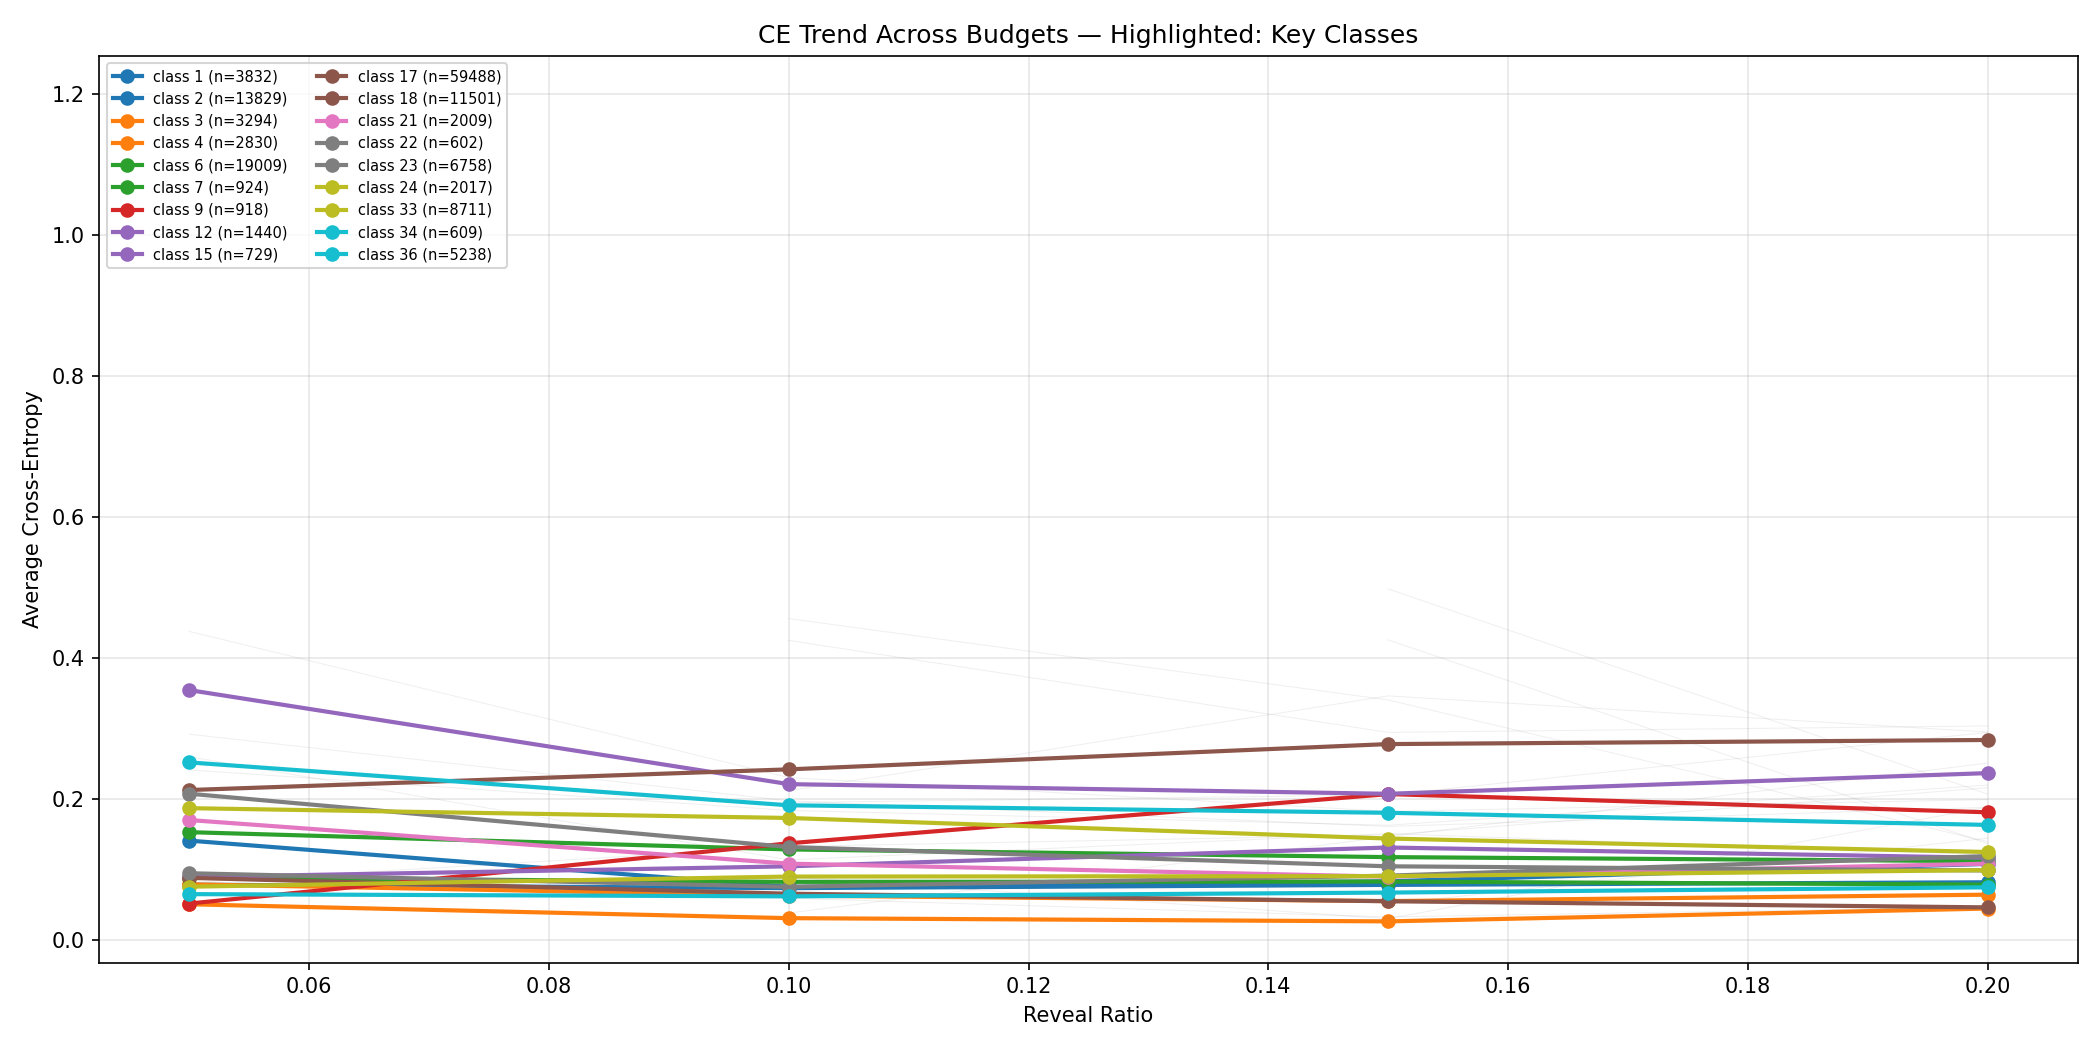
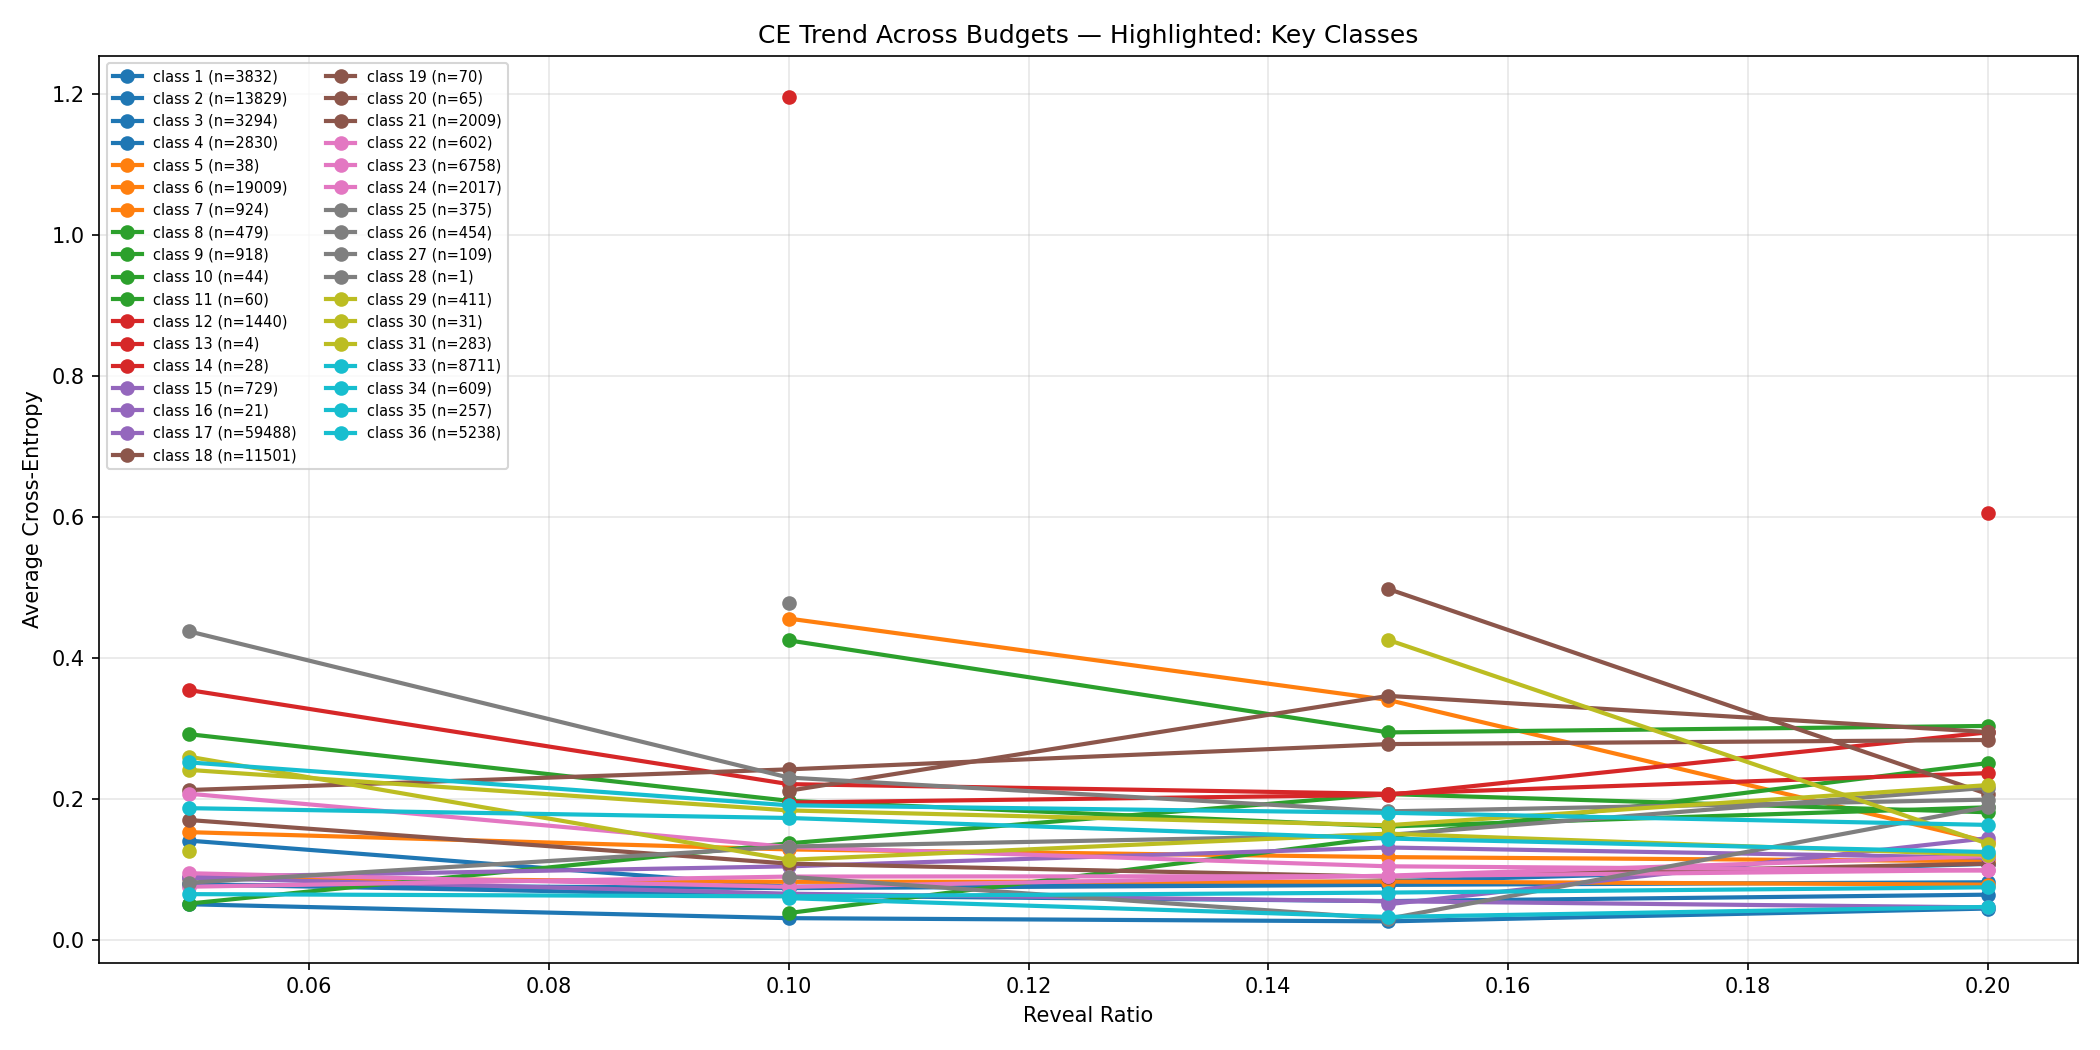
轨迹分析：补充和裁剪计划

diff --git a/code/m4/filter_trajectories.py b/code/m4/filter_trajectories.py
@@ -38,7 +38,7 @@ def parse_args():
     return p.parse_args()
 
 
-def cosine_similarity(set1: Set[int], set2: Set[int]) -> float:
+def similarity(set1: Set[int], set2: Set[int]) -> float:
     """计算两个轨迹集表示的余弦相似度。
 
     cos_sim = |A ∩ B| / sqrt(|A| * |B|)
@@ -68,7 +68,7 @@ def dedup_group(trajs: List[Trajectory], threshold: float) -> List[Trajectory]:
         traj_set = set(traj.reveal_order)
         is_dup = False
         for ks in kept_sets:
-            if cosine_similarity(traj_set, ks) > threshold:
+            if similarity(traj_set, ks) > threshold:
                 is_dup = True
                 break
 

diff --git a/code/m4/analyze_trajectories.py b/code/m4/analyze_trajectories.py
@@ -315,7 +315,7 @@ def plot_ce_trend_across_budgets(all_ratio_data: dict, output_path: Path):
     class_total = {l: sum(class_ce_trend[l]['counts']) for l in range(N_CLASSES)}
     max_count = max(class_total.values()) if any(class_total.values()) else 1
 
-    highlight_classes = [l for l in range(N_CLASSES) if class_total[l] >= 500] 
+    highlight_classes = [l for l in range(N_CLASSES) if class_total[l] > 0] 
     palette = plt.cm.tab10(np.linspace(0, 1, len(highlight_classes)))
 
     fig, ax = plt.subplots(figsize=(14, 7))

diff --git a/docs/progress/weekly/2026-06-07-trajectory-filter-v3-plan.md b/docs/progress/weekly/2026-06-07-trajectory-filter-v3-plan.md
@@ -1,164 +1,158 @@
-# Plan: M4 Trajectory V3 智能筛选
+# M4 Trajectory 轨迹数量与交叉熵联合分析报告
 
-质量优先 + 多样性补充 + 类别平衡 + 难度感知，四合一。
+## 一、基础数据整理
 
----
+### 生成方法
 
-## 1. 难度分类（用户定义）
+- **T1 (gradient)**：选梯度归因分数最高的 frontier node；生成轨迹
+- **T2 (structural)**：选 degree/pagerank 最高的 frontier node；生成轨迹
+- **T4 (hybrid)**：打分时使用 α·T1 + (1-α)·T2（α=0.30 / α=0.70）
+- 每个 teacher 先全图打分，选出 top-k 最优点开始尝试（k=2）
+- 数据来源于 4 种预算（0.05, 0.10, 0.15, 0.20），78200 图
 
-基于跨 budget CE 行为模式（`analysis_cross_budget_ce.png`）：
-
-
-| 层级    | 标准                                | 类别                                                              | 数量 |
-| ------- | ----------------------------------- | ----------------------------------------------------------------- | ---- |
-| **T0**  | 任何预算下均无成功案例              | 0, 32                                                             | 2    |
-| **T1**  | 高预算 CE ≥ 0.4，低预算误差极高    | 13, 25, 30                                                        | 3    |
-| **T2**  | 高预算 CE 0.2~0.4，低预算误差较高   | 5, 8, 11, 12, 14, 18, 19, 20, 29, 31, 34                          | 11   |
-| **T3a** | 所有预算 CE < 0.2，且轨迹量 > 3000  | 2, 6, 17                                                          | 3    |
-| **T3b** | 所有预算 CE < 0.2，但轨迹量 ≤ 3000 | 1, 3, 4, 7, 9, 10, 15, 16, 21, 22, 23, 24, 26, 27, 28, 33, 35, 36 | 18   |
-
----
-
-## 2. 每类预算分配
+### 难度分层（基于总轨迹数 × 交叉熵）
 
 
-| 层级 | 策略         | 每类预算          | 精英比例 | 多样性阈值 |
-| ---- | ------------ | ----------------- | -------- | ---------- |
-| T0   | 无数据，跳过 | —                | —       | —         |
-| T1   | 全部保留     | `actual_count`    | 0        | 0.95       |
-| T2   | 尽可能保留   | `min(count, 900)` | 0.3      | 0.75       |
-| T3a  | 激进削减     | `min(count, 300)` | 0.4      | 0.60       |
-| T3b  | 适度保留     | `min(count, 500)` | 0.4      | 0.65       |
+| 难度分层     | 风险等级    | 核心特征                                | 包含类别                                                                                                             |
+| :----------- | :---------- | :-------------------------------------- | :------------------------------------------------------------------------------------------------------------------- |
+| 不可学习类别 | ⚫ 最高风险 | 无有效轨迹数据，无任何成功预测案例      | 0、32                                                                                                                |
+| 极高难度类别 | 🔴 紧急风险 | 轨迹数 < 100，样本极度稀缺，交叉熵极高  | 13(n=4)、16(n=21)、14(n=28)、30(n=31)、5(n=38)、10(n=44)、11(n=60)、20(n=65)、19(n=70)、27(n=109)、28(n=1)           |
+| 高难度类别   | 🟠 高风险   | 轨迹数 100~1000，样本稀缺，交叉熵中高   | 8(n=479)、26(n=454)、29(n=411)、25(n=375)、31(n=283)、35(n=257)、7(n=924)、9(n=918)、15(n=729)、22(n=602)、34(n=609) |
+| 中难度类别   | 🟡 中风险   | 轨迹数 1000~10000，样本中等，交叉熵中高 | 12(n=1440)、21(n=2009)、24(n=2017)、4(n=2830)、3(n=3294)、1(n=3832)、36(n=5238)、23(n=6758)、33(n=8711)              |
+| 低难度类别   | 🟢 低风险   | 轨迹数 > 10000，样本充足，交叉熵极低    | 2(n=13829)、18(n=11501)、6(n=19009)、17(n=59488)                                                                     |
 
-**T0 说明**：在任何 budget 下 classifier 都无法正确分类的类，没有轨迹可供筛选——自然跳过。
-
-**T1 说明**（13, 25, 30）：极少量轨迹（每类 < 50 条），每条都是"高 budget 下好不容易成功的路径"。全部保留，精英比例 0（无需区分），去重阈值 0.95（仅去真正的比特级重复）。
-
-**T2 说明**（class 18 为代表）：困难类，CE 不随 budget 改善（class 18 gradient CE: 0.190→0.275），但轨迹量不算少。保留尽可能多（上限 900），精英 30% 保证质量底线，多样性阈值 0.75 保留不同阅读策略。
-
-**T3a 说明**（17, 6, 2）：极易类 + 海量轨迹。class 17 从 17,751→300（削减 98.3%）。300 条中 120 条按最低 CE 直接保留（精英），180 条在剩余中按多样性（cos_sim < 0.60）补充。
-
-**T3b 说明**：容易但不过量的类，适度保留。500 条中 200 精英 + 300 多样性补充。
+> 注：n 值为 4 种预算下的轨迹总数
 
 ---
 
-## 3. 类内分层筛选算法
+## 二、优化策略
 
-对每个类别 c，预算 B：
+### 2.1 0.20 预算的边际贡献
 
-```
-1. 收集该类所有轨迹（跨 teacher、graph、ratio）
-2. 按 CE 升序排列
-3. 精英池：取前 ⌊B × elite_ratio⌋ 条，不做多样性检查，直接保留
-4. 多样性池：从剩余候选中贪心选入：
-   - 对每条候选轨迹，计算与所有已保留轨迹的最大余弦相似度
-   - 若 max_cos_sim < diversity_threshold → 保留
-   - 否则 → 丢弃
-   - 直到已保留总数 = B 或候选耗尽
-5. 图级上限：每个 (graph_idx, ratio) 最多保留 max_per_graph 条（CE 最低优先）
-```
 
-**余弦相似度**（与 V2 一致）：
+| 指标           | 0.05   | 0.10    | 0.15   | 0.20     |
+| -------------- | ------ | ------- | ------ | -------- |
+| 总轨迹数       | 27,321 | 37,347  | 40,804 | 40,996   |
+| 增量           | —     | +10,026 | +3,457 | **+192** |
+| missing 类别数 | 13     | 5       | 4      | 3        |
 
-```
-轨迹 v → binary vector (reveal_order 节点集合)
-v_norm = v / ||v||₂
-cos_sim = dot(v1_norm, v2_norm) = |交集| / sqrt(|v1| × |v2|)
-```
+0.15→0.20 仅新增 192 条轨迹（+0.5%），missing 类别仅从 4→3（class 13 重新出现，0.10可以检测到class 13），**0.20 未带来实质性突破**。
 
-**为什么精英池不做多样性检查？** 如果 top CE 轨迹都指向同一子结构 → 那是 class c 的黄金阅读路径 → reader 必须学会它。
+### 2.2 裁剪策略
 
----
+- **主体**：仅使用 [0.05, 0.10, 0.15] 三个预算
+- **例外**：总轨迹数 < 1000 的类别保留 0.20（共 22 类，这些类的 0.20 贡献了约 33% 的轨迹，不可忽略）
+- **被裁类别**（总 ≥ 1000，丢弃 0.20）：1, 2, 3, 4, 6, 12, 17, 18, 21, 23, 24, 33, 36（共 13 类）
 
-## 4. 处理流程
+### 2.3 补充策略
 
-```
-输入: code/m4/output/trajectories_merged_r*.pt (4 个文件: 0_050, 0_100, 0_150, 0_200)
+裁剪后总数 < 200 的类别需额外生成轨迹（增加 teacher尝试次数k ）：0, 5, 10, 11, 13, 14, 16, 19, 20, 27, 28, 30, 32（共 13 类）
 
-Step 1: 加载所有 ratio 文件，展平轨迹
-Step 2: 按 final_pred（= 类别标签）分组
-Step 3: 查找难度表，分配每类预算和参数
-Step 4: 每类独立执行分层筛选
-Step 5: 图级上限裁剪
-Step 6: 按原嵌套结构重建 {teacher_name: [[Traj per graph], ...]}
-Step 7: 按 ratio 分别保存
-Step 8: 输出筛选报告 JSON
+### 2.4 类内筛选
 
-输出: code/m4/filtered_v3/trajectories_filtered_v3_r*.pt (4 个文件)
-       code/m4/filtered_v3/filter_report.json
-```
+使用余弦相似度去重：`sim = |交集| / |v1|`，sim > 0.85 的轨迹只保留 CE 最低者。先按 CE 升序排列，贪心保留。
 
 ---
 
-## 5. 实现
+## 三、剪裁+补充后轨迹分布
 
-### 文件：`code/m4/filter_trajectories.py`（重写）
-
-**难度表**（硬编码，基于用户分类）：
-
-```python
-DIFFICULTY_CONFIG = {
-    # label: (tier, budget, elite_ratio, diversity_threshold)
-}
-
-T0_LABELS  = {0, 32}
-T1_LABELS  = {13, 25, 30}
-T2_LABELS  = {5, 8, 11, 12, 14, 18, 19, 20, 29, 31, 34}
-T3a_LABELS = {2, 6, 17}
-T3b_LABELS = {1, 3, 4, 7, 9, 10, 15, 16, 21, 22, 23, 24, 26, 27, 28, 33, 35, 36}
-```
-
-**CLI 参数**：
+### 不可学习类别 ⚫ 最高风险
 
 
-| 参数              | 默认值                      | 说明                    |
-| ----------------- | --------------------------- | ----------------------- |
-| `--input-dir`     | `m4/output`                 | 含 merged .pt 的目录    |
-| `--output-dir`    | `m4/filtered_v3`            | 输出目录                |
-| `--max-per-graph` | 5                           | 每图每 ratio 最大轨迹数 |
-| `--input-glob`    | `trajectories_merged_r*.pt` | 输入匹配模式            |
-| `--output-prefix` | `trajectories_filtered_v3`  | 输出前缀                |
+| 类别 | 0.05 | 0.10 | 0.15 | 0.20 | 裁剪前 | 裁剪后 | 保留0.20? | 需补充? |
+| ---- | ---- | ---- | ---- | ---- | ------ | ------ | --------- | ------- |
+| 0    | 0    | 0    | 0    | 0    | 0      | **0**  | —        | ✅      |
+| 32   | 0    | 0    | 0    | 0    | 0      | **0**  | —        | ✅      |
 
-（预算/精英/阈值从难度表读取，无需 CLI 参数）
+### 极高难度类别 🔴 紧急风险（裁剪后 < 200）
 
-**核心函数**：
 
-```
-build_difficulty_config() → Dict[int, TierConfig]
-stratified_select(trajs, config) → List[Trajectory]
-apply_graph_cap(selected, max_per_graph) → List[Trajectory]
-reconstruct_nested(filtered_flat, original_structure) → dict
-generate_report(before_stats, after_stats) → dict
-```
+| 类别 | 0.05 | 0.10 | 0.15 | 0.20 | 裁剪前 | 裁剪后  | 保留0.20? | 需补充? |
+| ---- | ---- | ---- | ---- | ---- | ------ | ------- | --------- | ------- |
+| 13   | 0    | 2    | 0    | 2    | 4      | **4**   | ✅        | ✅      |
+| 16   | 0    | 0    | 7    | 14   | 21     | **21**  | ✅        | ✅      |
+| 14   | 0    | 8    | 8    | 12   | 28     | **28**  | ✅        | ✅      |
+| 30   | 11   | 0    | 5    | 15   | 31     | **31**  | ✅        | ✅      |
+| 5    | 0    | 4    | 16   | 18   | 38     | **38**  | ✅        | ✅      |
+| 10   | 0    | 9    | 15   | 20   | 44     | **44**  | ✅        | ✅      |
+| 11   | 0    | 5    | 19   | 36   | 60     | **60**  | ✅        | ✅      |
+| 20   | 0    | 15   | 25   | 25   | 65     | **65**  | ✅        | ✅      |
+| 19   | 0    | 0    | 18   | 52   | 70     | **70**  | ✅        | ✅      |
+| 27   | 0    | 26   | 36   | 47   | 109    | **109** | ✅        | ✅      |
+| 28   | 0    | 1    | 0    | 0    | 1      | **1**   | ✅        | ✅      |
 
-### 新文件：`code/m4/filtered_v3/filter_report.json`
+### 高难度类别 🟠 高风险（裁剪后 200~1000）
 
-```json
-{
-  "config": { "max_per_graph": 5, ... },
-  "per_class": {
-    "17": {
-      "tier": "T3a",
-      "before": 17751,
-      "after": 300,
-      "elite_count": 120,
-      "diversity_count": 180,
-      "avg_ce_before": 0.048,
-      "avg_ce_after": 0.042
-    },
-    ...
-  },
-  "totals": { "before": 40996, "after": 11400 }
-}
-```
+
+| 类别 | 0.05 | 0.10 | 0.15 | 0.20 | 裁剪前 | 裁剪后  | 保留0.20? | 需补充? |
+| ---- | ---- | ---- | ---- | ---- | ------ | ------- | --------- | ------- |
+| 35   | 0    | 78   | 86   | 93   | 257    | **257** | ✅        | ❌      |
+| 31   | 43   | 98   | 82   | 60   | 283    | **283** | ✅        | ❌      |
+| 25   | 7    | 88   | 124  | 156  | 375    | **375** | ✅        | ❌      |
+| 29   | 12   | 50   | 153  | 196  | 411    | **411** | ✅        | ❌      |
+| 26   | 36   | 115  | 159  | 144  | 454    | **454** | ✅        | ❌      |
+| 8    | 24   | 100  | 147  | 208  | 479    | **479** | ✅        | ❌      |
+| 22   | 84   | 169  | 186  | 163  | 602    | **602** | ✅        | ❌      |
+| 34   | 7    | 97   | 212  | 293  | 609    | **609** | ✅        | ❌      |
+| 15   | 63   | 157  | 228  | 281  | 729    | **729** | ✅        | ❌      |
+| 9    | 106  | 193  | 289  | 330  | 918    | **918** | ✅        | ❌      |
+| 7    | 134  | 183  | 277  | 330  | 924    | **924** | ✅        | ❌      |
+
+### 中难度类别 🟡 中风险
+
+
+| 类别 | 0.05  | 0.10  | 0.15  | 0.20      | 裁剪前 | 裁剪后    | 保留0.20? | 需补充? |
+| ---- | ----- | ----- | ----- | --------- | ------ | --------- | --------- | ------- |
+| 12   | 89    | 557   | 449   | 345       | 1,440  | **1,440** | ✅        | ❌      |
+| 21   | 133   | 491   | 670   | 715       | 2,009  | **2,009** | ✅        | ❌      |
+| 24   | 182   | 529   | 634   | 672       | 2,017  | **2,017** | ✅        | ❌      |
+| 4    | 228   | 778   | 913   | 911       | 2,830  | **2,830** | ✅        | ❌      |
+| 3    | 325   | 827   | 1,038 | ~~1,104~~ | 3,294  | **2,190** | ❌        | ❌      |
+| 1    | 321   | 1,172 | 1,227 | ~~1,112~~ | 3,832  | **2,720** | ❌        | ❌      |
+| 36   | 994   | 1,417 | 1,473 | ~~1,354~~ | 5,238  | **3,884** | ❌        | ❌      |
+| 23   | 802   | 1,689 | 2,060 | ~~2,207~~ | 6,758  | **4,551** | ❌        | ❌      |
+| 33   | 2,718 | 2,023 | 1,945 | ~~2,025~~ | 8,711  | **6,686** | ❌        | ❌      |
+| 18   | 4,851 | 2,700 | 2,159 | ~~1,791~~ | 11,501 | **9,710** | ❌        | ❌      |
+
+**小计**：10 类，裁剪前 47,630 → 裁剪后 38,037（4 类保留 0.20，6 类丢弃 0.20）
+
+### 低难度类别 🟢 低风险（0.20 被裁）
+
+
+| 类别 | 0.05  | 0.10   | 0.15   | ~~0.20~~   | 裁剪前 | 裁剪后     | 保留0.20? | 需补充? |
+| ---- | ----- | ------ | ------ | ---------- | ------ | ---------- | --------- | ------- |
+| 2    | 2,752 | 3,838  | 3,735  | ~~3,504~~  | 13,829 | **10,325** | ❌        | ❌      |
+| 6    | 4,293 | 4,716  | 4,990  | ~~5,010~~  | 19,009 | **13,999** | ❌        | ❌      |
+| 17   | 9,106 | 15,212 | 17,419 | ~~17,751~~ | 59,488 | **41,737** | ❌        | ❌      |
+
+**小计**：3 类，裁剪前 92,326 → 裁剪后 66,061（丢弃 0.20）
+
+## 四、汇总
+
+
+| 难度分层    | 类数   | 裁剪前      | 裁剪后      | 削减量     | 削减比例  |
+| ----------- | ------ | ----------- | ----------- | ---------- | --------- |
+| ⚫ 不可学习 | 2      | 0           | 0           | 0          | —        |
+| 🔴 极高难度 | 11     | 471         | 471         | 0          | 0%        |
+| 🟠 高难度   | 11     | 6,041       | 6,041       | 0          | 0%        |
+| 🟡 中难度   | 10     | 47,630      | 38,037      | 9,593      | 20.1%     |
+| 🟢 低难度   | 3      | 92,326      | 66,061      | 26,265     | 28.4%     |
+| **总计**    | **37** | **146,468** | **110,610** | **35,858** | **24.5%** |
+
+### Class 17 占比变化
+
+
+| 阶段               | Class 17 | 总轨迹  | 占比  |
+| ------------------ | -------- | ------- | ----- |
+| 裁剪前（4 budget） | 59,488   | 146,468 | 40.6% |
+| 裁剪后             | 41,737   | 110,610 | 37.7% |
+| 预期（去重后）     | ~8,000   | ~70,000 | ~11%  |
 
 ---
 
-## 6. 验证
+## 五、下一步待办
 
-1. `python code/m4/filter_trajectories.py --input-dir code/m4/output --output-dir code/m4/filtered_v3`
-2. 检查 class 17: ~300 条（从 ~17,751）
-3. 检查 T1 类全部保留
-4. 检查 T0 类无变化
-5. 输出文件可被 `analyze_trajectories.py` 加载
-6. 运行 analyze 对比筛选前后分布：`python code/m4/analyze_trajectories.py --input-dir code/m4/filtered_v3 --output-dir code/m4/analysis_v3`
+- [ ]  补充极高难度类别（13 类 < 200）：增加 top-k，目标每类 ≥ 200
+- [ ]  实现裁剪脚本：按策略过滤 budget，输出新的 merged 文件
+- [ ]  类内去重：对中/低难度类执行相似度筛选（sim > 0.85 去重），控制 class 17 占比
+- [ ]  与导师确认策略后执行

diff --git a/docs/roadmap.md b/docs/roadmap.md
@@ -51,16 +51,16 @@ Goal: make the project concrete enough that a first benchmark and baseline imple
 - [X]  Freeze v0 protocol: `G_0` = Plan D with k=1 random seed (incident edge list / neighbor IDs visible; no raw node-feature assumption); action = `reveal_node(v)` revealing v as observed, edge features to already-revealed nodes, and incident edge list / neighbor IDs so the frontier can expand; unit cost; budget = number of revealed nodes, reported also as fraction of total nodes per graph.
 - [X]  Implement reveal process and partial-graph representation.
 - [X]  Implement three policies under the v0 action: uniform random over frontier; BFS from seed; max known-frontier degree (edges from a frontier node back into the revealed subgraph, not true graph degree).
-- [ ]  Average each policy over multiple random seeds per graph.
-- [ ]  Plot budget-performance curves vs. the full-graph upper bound.
-- [ ]  Kill-criterion check: if BFS-from-seed reaches ~90% of full-graph accuracy at <10% reveal ratio, the dataset is too easy — switch dataset or harden `G_0` before M4.
+- [X]  Average each policy over multiple random seeds per graph.
+- [X]  Plot budget-performance curves vs. the full-graph upper bound.
+- [X]  Kill-criterion check: if BFS-from-seed reaches ~90% of full-graph accuracy at <10% reveal ratio, the dataset is too easy — switch dataset or harden `G_0` before M4.
 
 ### M4: Teacher / Trajectory Baselines
 
 **Target**: after first benchmark protocol works**Status**: not started
 
 - [ ]  Generate trajectories from random, BFS, degree / centrality, and heuristic policies.
-- [ ]  Score trajectories by final prediction quality or information gain.
+- [X]  Score trajectories by final prediction quality or information gain.
 - [ ]  Estimate oracle / upper-bound headroom without leaking labels into the test-time policy.
 - [ ]  Decide whether trajectory distillation is worth pursuing.
 

diff --git a/docs/progress/weekly/2026-5-28 policy-optimization-report.md b/docs/progress/weekly/2026-5-28 policy-optimization-report.md
@@ -160,7 +160,7 @@ next_node = argmax(frontier_scores)            # int — 不可微！
 
 一幅图从n个seed开始生成轨迹，从中依靠交叉熵选出top-k条路径
 
-T1 (gradient): 选使 classifier loss 下降最快的 frontier node；生成轨迹t11, t12, t13, ……, t1n
+T1 (gradient): 选梯度归因分数最高的 frontier node；生成轨迹t11, t12, t13, ……, t1n
 
 T2 (info-gain): 选使 classifier entropy 下降最多的 frontier node;生成轨迹t21, t22, t23, ……, t2n
 
